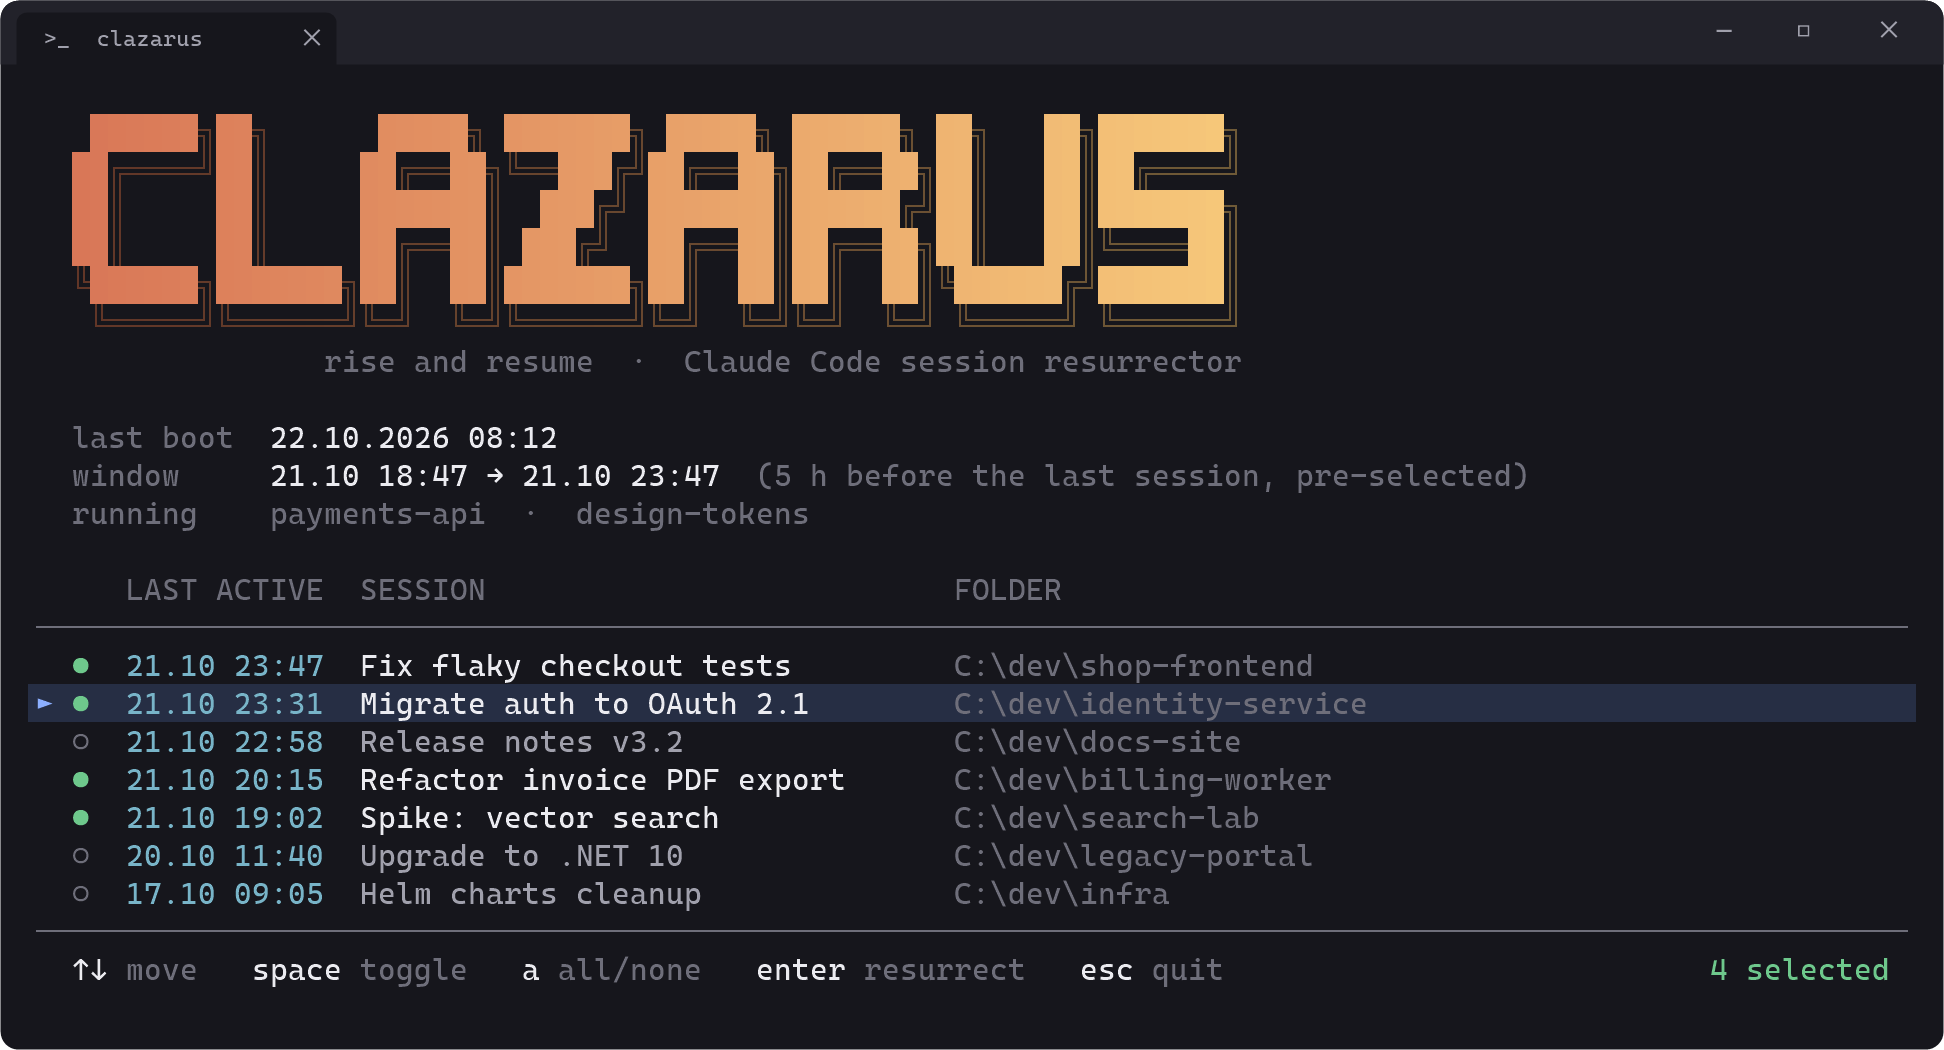
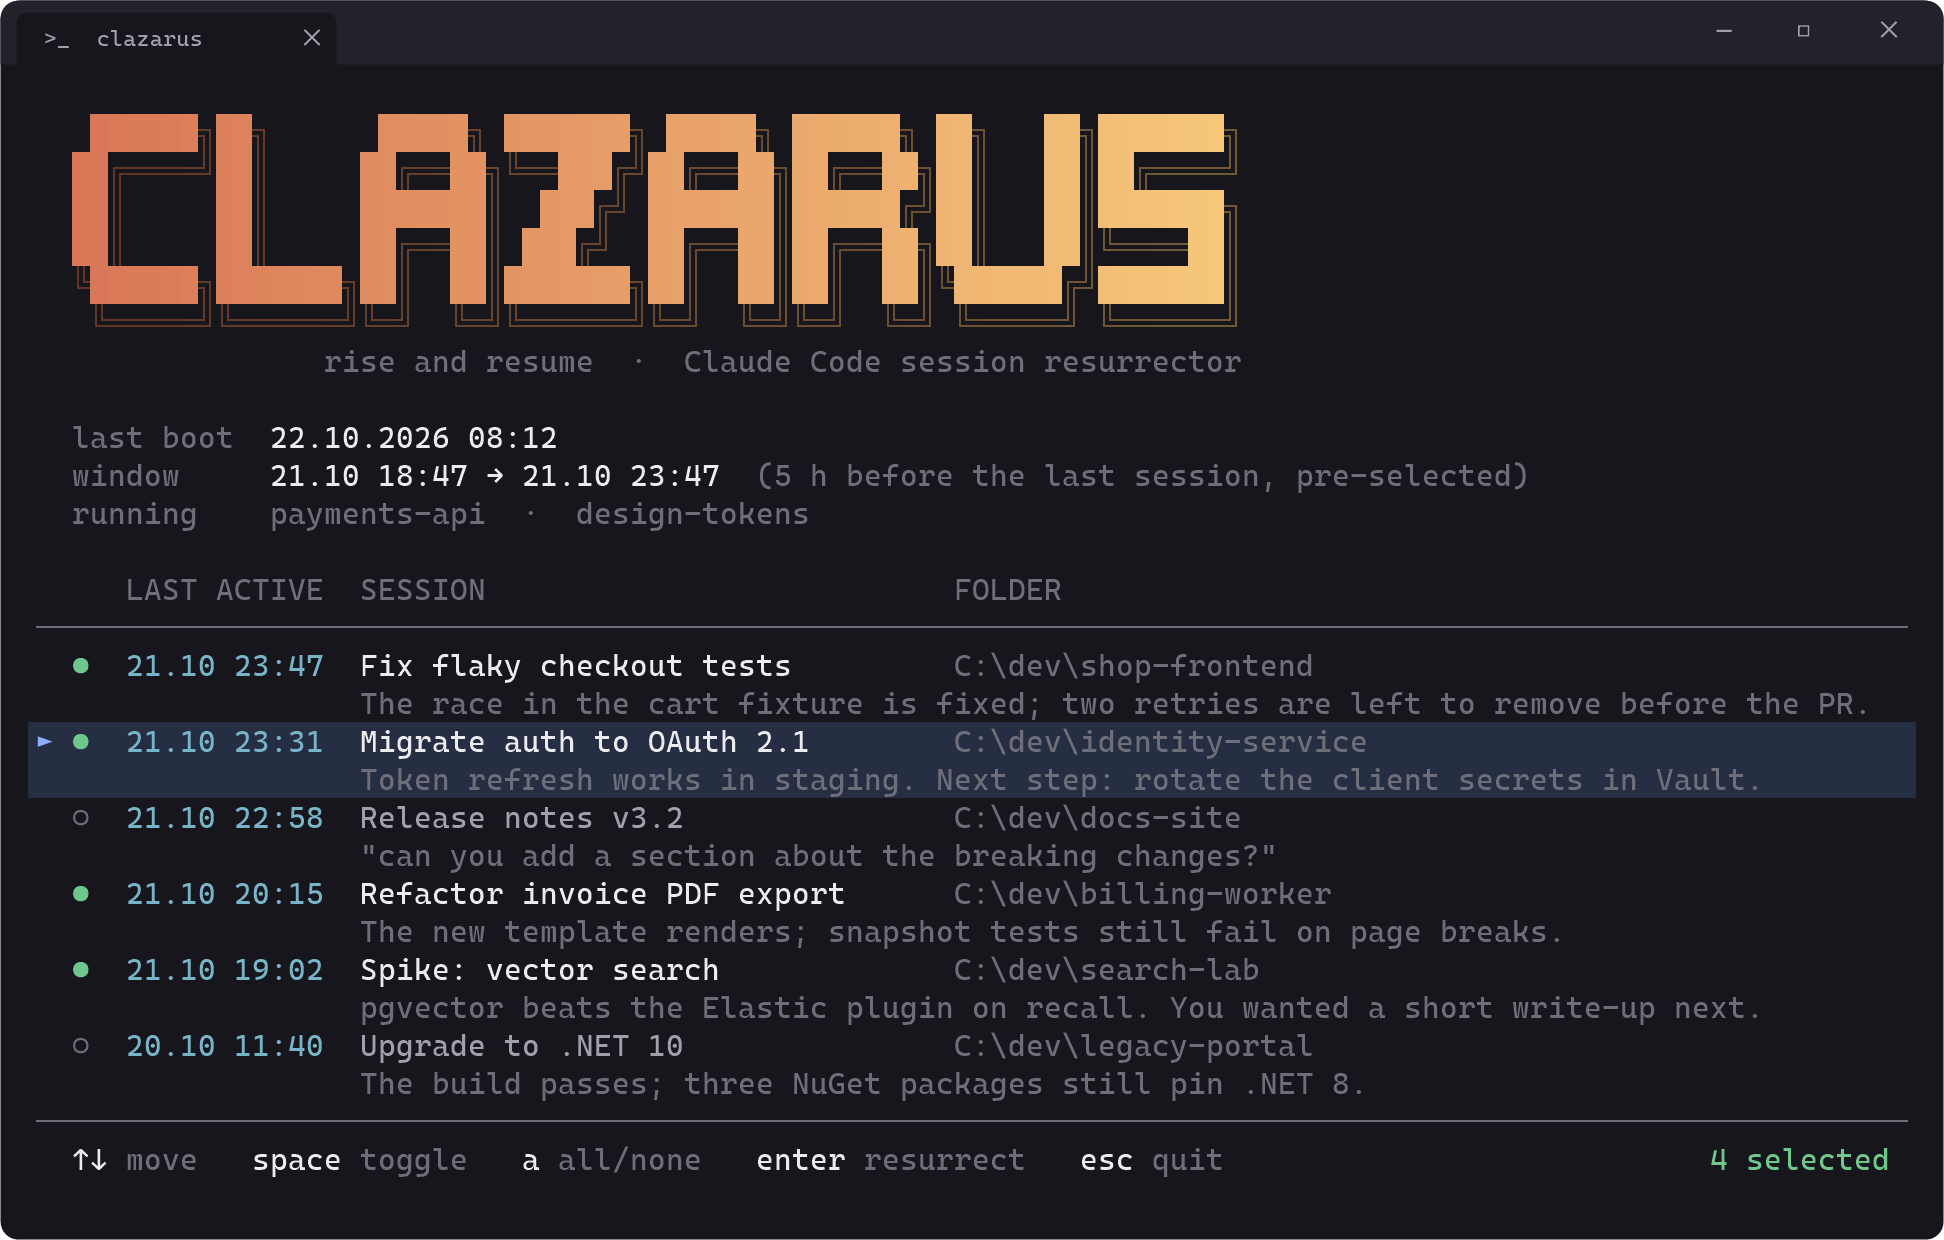
Show a one-line summary under each session
The summary is Claude's last away_summary recap, or the last prompt in quotes when there is none. It comes from the same transcript pass as the title, so it costs no extra read. Each session now takes two lines in the picker; the README screenshot shows them.

diff --git a/README.md b/README.md
@@ -13,7 +13,9 @@ own folder with `claude --resume` and Remote Control enabled.
 
 ![Clazarus picker in Windows Terminal](docs/screenshot.png)
 
-Selected sessions get a green `●` and the cursor row is highlighted. Sessions that are already
+Under each session is a one-line summary: Claude's last "while you were away" recap, or your last
+prompt, in quotes, when there is no recap. Selected sessions get a green `●` and the cursor row is
+highlighted. Sessions that are already
 running are not choices: they are only named on the `running` line.
 
 ## Install
